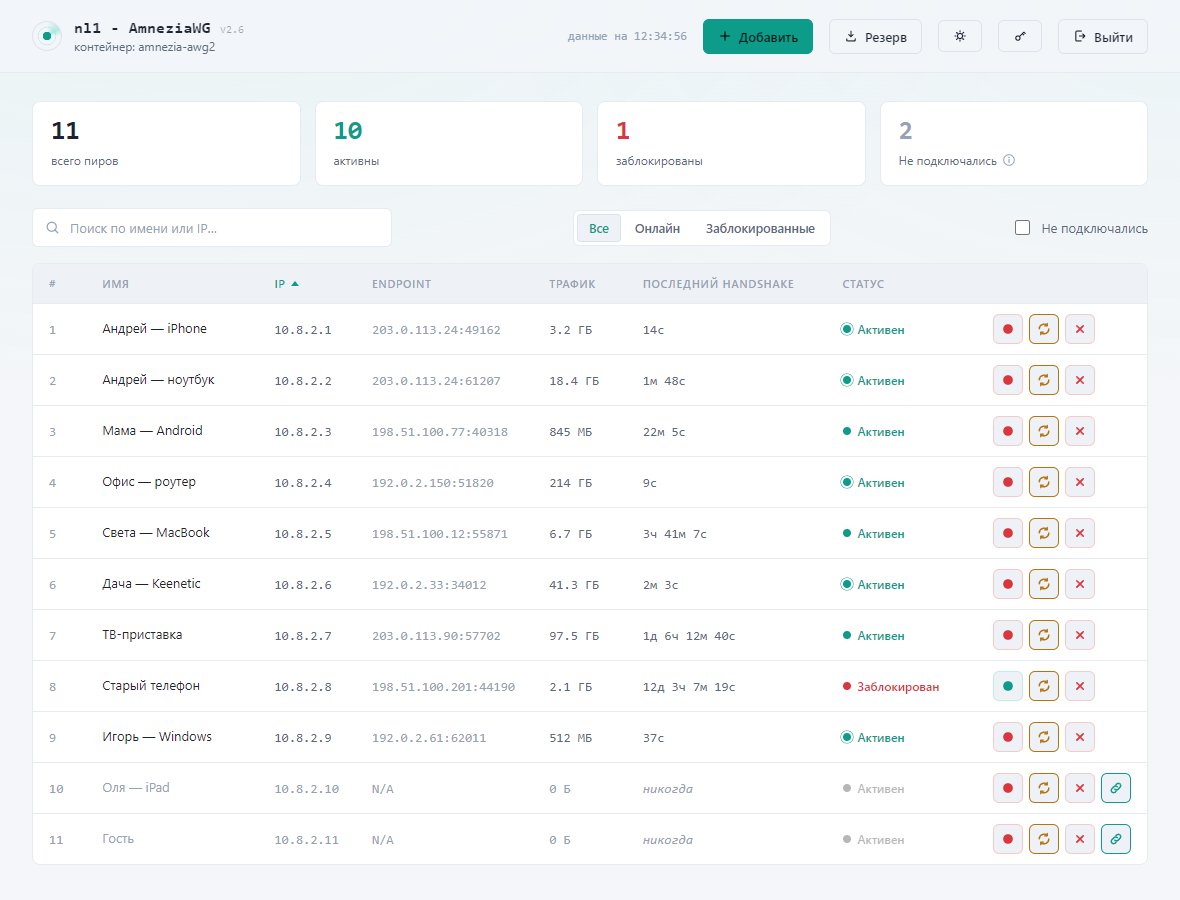
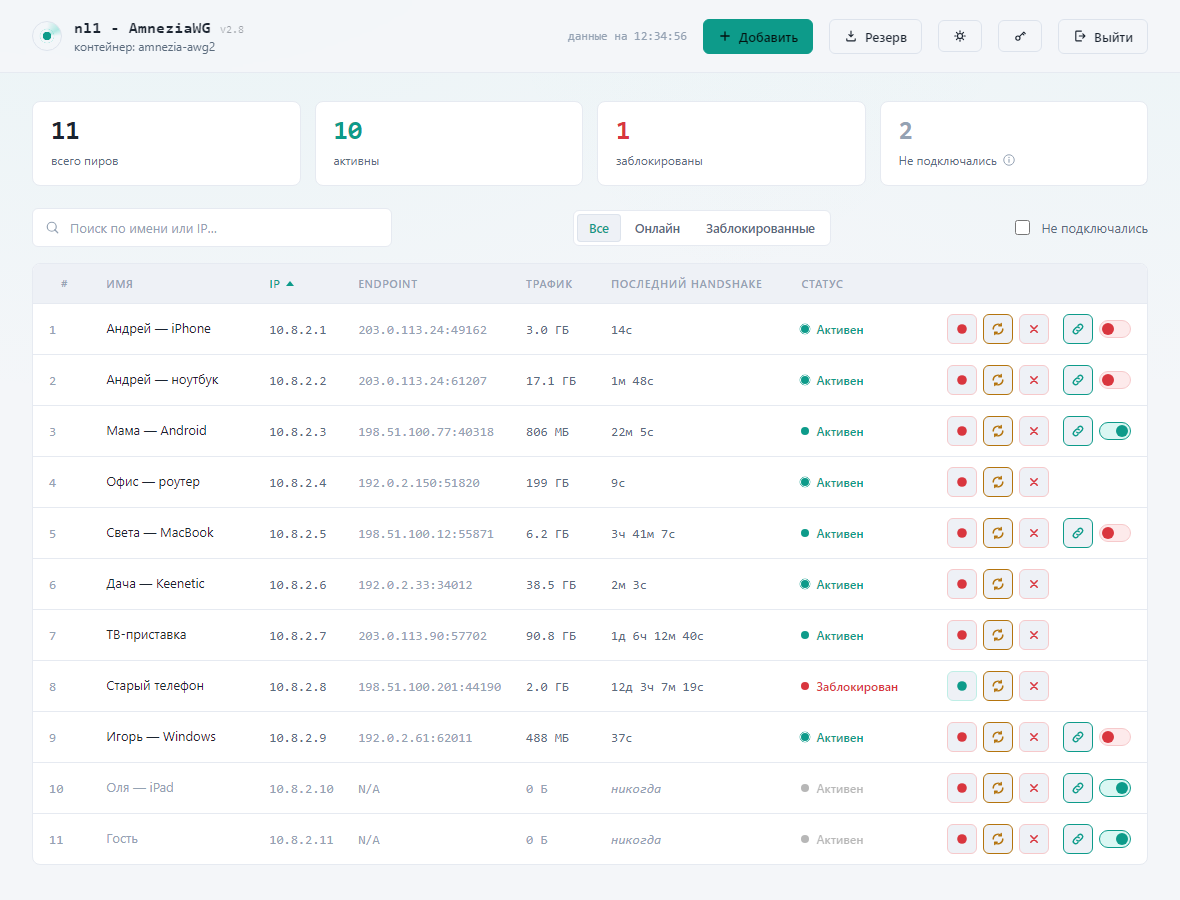
Скриншот README под v2.8 (ссылка и тумблер страницы); таблица больше не обрезается справа на ширине ~1180px

diff --git a/static/style.css b/static/style.css
@@ -367,6 +367,7 @@ body {
   border: 1px solid var(--border-soft);
   border-radius: var(--radius);
   overflow: hidden;
+  overflow-x: auto; /* не хватило ширины — таблица прокручивается, а не обрезается справа */
 }
 
 table.peers {
@@ -384,7 +385,7 @@ table.peers {
   letter-spacing: 0.06em;
   color: var(--text-dim);
   font-weight: 600;
-  padding: 12px 16px;
+  padding: 12px 12px;
   border-bottom: 1px solid var(--border-soft);
   background: var(--panel-alt);
 }
@@ -398,7 +399,7 @@ table.peers {
   align-items: center;
   gap: 6px;
   width: 100%;
-  padding: 12px 16px;
+  padding: 12px 12px;
   cursor: pointer;
   font: inherit;
   text-transform: inherit;
@@ -425,12 +426,15 @@ th.is-desc .sort-btn::after { transform: rotate(180deg); }
 .sort-btn:focus-visible { outline: 2px solid var(--teal); outline-offset: -2px; }
 
 .peers tbody td {
-  padding: 10px 16px;
+  padding: 10px 12px;
   border-bottom: 1px solid var(--border-soft);
   white-space: nowrap;
   vertical-align: middle;
 }
 .peers tbody tr:last-child td { border-bottom: none; }
+/* крайние колонки — прежний отступ от рамки */
+.peers thead th:first-child, .peers tbody td:first-child { padding-left: 16px; }
+.peers thead th:last-child, .peers tbody td:last-child { padding-right: 16px; }
 .peers tbody tr:hover { background: var(--row-hover); }
 
 .col-num { width: 44px; color: var(--text-dim); }

diff --git a/README.md b/README.md
@@ -22,7 +22,7 @@ Amnezia VPN не умеет удобно управлять клиентами: 
 - **учёт трафика** по клиентам (iptables mangle-счётчики в FORWARD), **персистентный** — переживает перезапуск контейнера и awg-web; первичный сид берётся из накопительных полей Amnezia (`dataReceived`/`dataSent`);
 - **резервная копия / восстановление** сервера прямо в панели — экспорт бандла и импорт в двух режимах: только клиенты (пиры) либо полная идентичность сервера (ключи+PSK+обфускация; тогда старые клиентские конфиги остаются валидны, нужен лишь DNS);
 - **смена пароля админа прямо в панели** (кнопка рядом с «Выйти») — не нужен ни `hashpw`, ни рестарт сервиса; поддержан `navigator.credentials.store()`, так что браузер и менеджер паролей на телефоне сами предлагают обновить сохранённый пароль;
-- **имя сервера** (как в `hostname`) в шапке и заголовке вкладки — `nl1 - AmneziaWG v2.6` — и свой значок вкладки: когда открыто несколько панелей, сразу видно, где ты;
+- **имя сервера** (как в `hostname`) в шапке и заголовке вкладки — `nl1 - AmneziaWG v2.8` — и свой значок вкладки: когда открыто несколько панелей, сразу видно, где ты;
 - тёмная/светлая тема, поиск по имени/IP, фильтры (онлайн/заблокированные); ни разу не подключавшиеся клиенты в общем списке серые, галочка «Не подключались» оставляет только их.
 - сортировка по любой колонке кликом по заголовку (повторный клик — обратный порядок; пустые значения вроде «никогда» всегда в конце), выбор запоминается в браузере.
 - **страница с конфигом для клиента** `https://<панель>/conf/<имя>` — без пароля, для раздачи: кнопка «Открыть в AmneziaVPN» (ссылка `vpn://`, на Android сразу импортирует), «Поделиться» (файл `.conf` — путь для iPhone, где у приложения нет своей схемы ссылок; на iPhone страница ведёт в **AmneziaWG**: AmneziaVPN из российского App Store убрана, а AmneziaWG от тех же разработчиков там есть и понимает AWG 3.1 — AmneziaVPN остаётся второй кнопкой для нероссийских Apple ID), «Скопировать ключ», скачать `.conf` и QR. Страница **создаётся сама** при добавлении клиента и при перевыпуске его ключей (ссылка — в окне с QR) и **выключается после первого подключения** — панель проверяет handshake раз в 20 секунд. Справа от «Удалить» в строке клиента — блок страницы: зелёная кнопка-ссылка всегда копирует адрес, тумблер рядом показывает и переключает саму страницу (вкл — открыта, выкл — по ссылке 404). После первого подключения тумблер сам уходит в «выкл». Если клиент потерял конфиг — включите тумблер: страница откроется по той же ссылке, ссылка скопируется в буфер; отправьте её и выключите тумблер снова. Включённую вручную страницу панель сама уже не закрывает — ею управляет админ. Перевыпуск ключей заменяет страницу новой (с новой ссылкой), удаление клиента — убирает; заодно убирается страница клиента, которого удалили мимо панели. В ссылке имя клиента и случайный хвост (`nl-arthur0-k7f3q2xm`; из кириллицы и пробелов — безопасная часть или `client`), так что угадать её по имени нельзя; при переименовании клиента ссылка не меняется. Конфиг лежит в `public_conf_dir` файлом `<имя>.conf` (ждёт подключения), `<имя>.on` (включена вручную) или `<имя>.off` (выключена). Каждое открытие пишется в журнал (`journalctl -u awg-web`). Не пересылайте ссылку дальше адресата: пока страница открыта, конфиг на ней рабочий.
